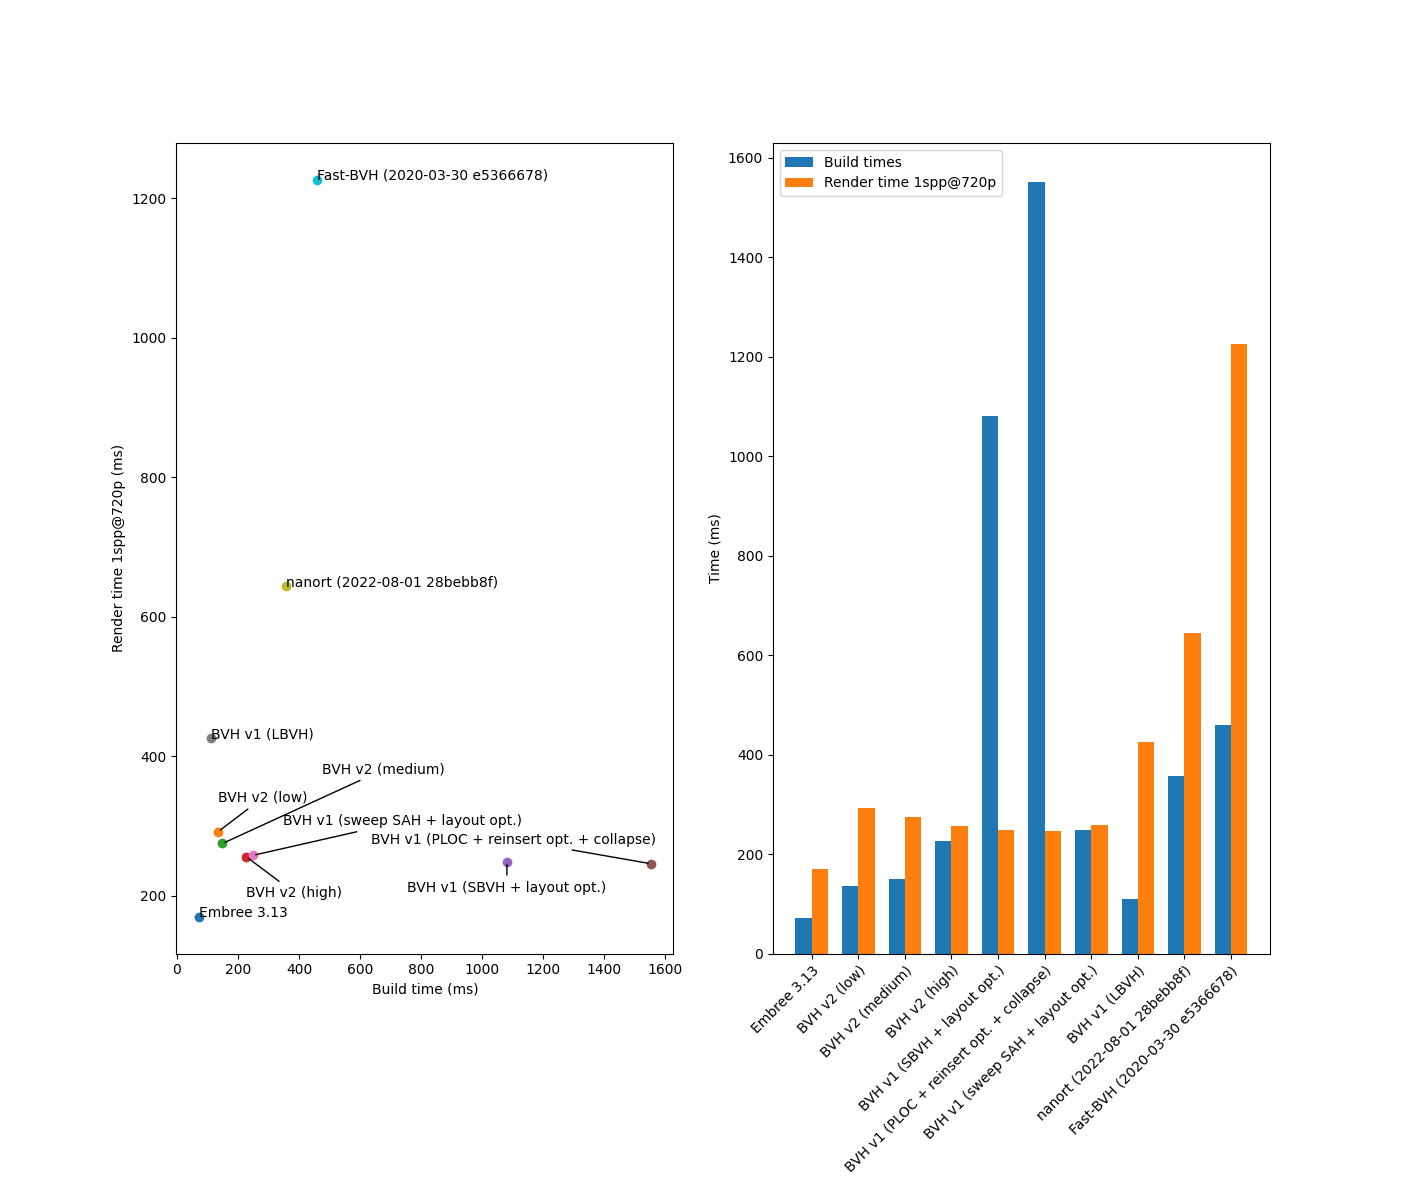
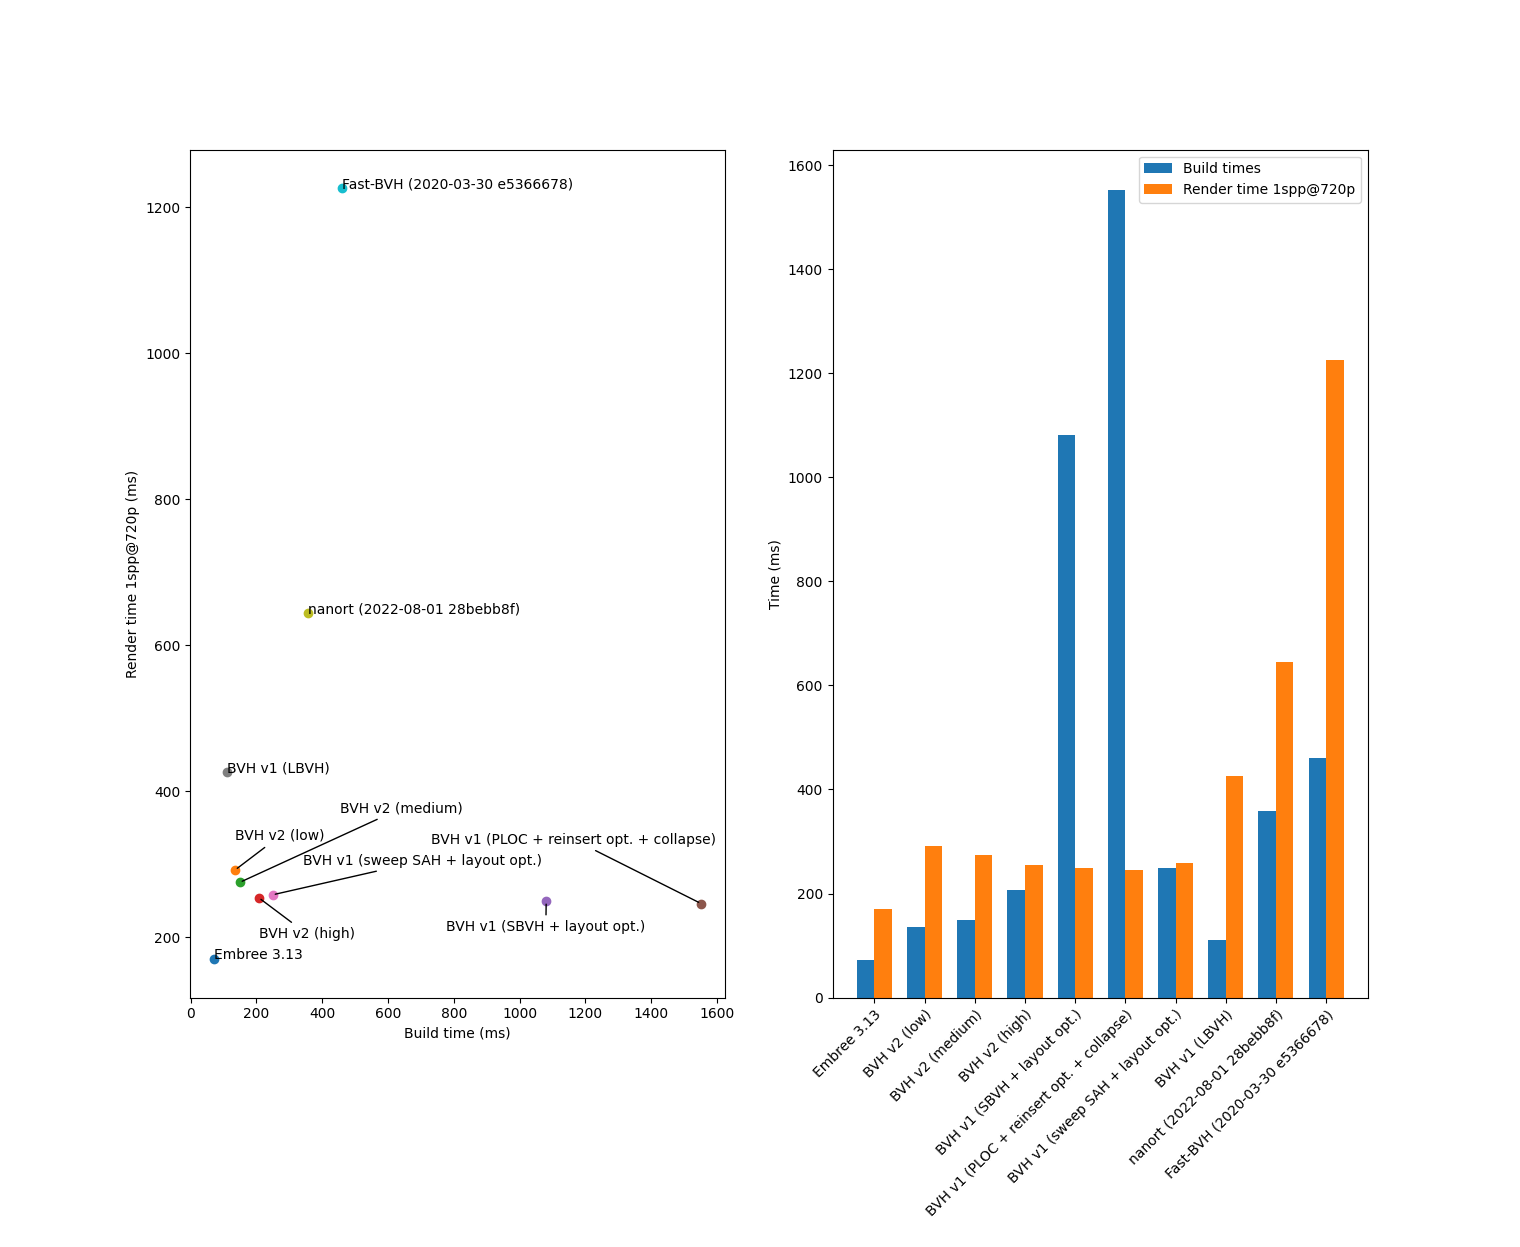
Improve speed of `find_candidates`

diff --git a/src/bvh/v2/reinsertion_optimizer.h b/src/bvh/v2/reinsertion_optimizer.h
@@ -6,6 +6,7 @@
 #include "bvh/v2/executor.h"
 
 #include <vector>
+#include <algorithm>
 
 namespace bvh::v2 {
 
@@ -46,7 +47,7 @@ private:
     struct Reinsertion {
         size_t from = 0;
         size_t to = 0;
-        Scalar area_diff = -std::numeric_limits<Scalar>::max();
+        Scalar area_diff = static_cast<Scalar>(0);
 
         BVH_ALWAYS_INLINE bool operator > (const Reinsertion& other) const {
             return area_diff > other.area_diff;
@@ -85,15 +86,21 @@ private:
     }
 
     BVH_ALWAYS_INLINE std::vector<Candidate> find_candidates(size_t target_count) {
-        std::vector<Candidate> candidates(bvh_.nodes.size() - 1);
-        for (size_t i = 0; i < candidates.size(); ++i)
-            candidates[i] = Candidate { i + 1, bvh_.nodes[i + 1].get_bbox().get_half_area() };
-        std::partial_sort(
-            candidates.begin(),
-            candidates.begin() + target_count,
-            candidates.end(),
-            std::greater<>{});
-        candidates.resize(std::min(target_count, candidates.size()));
+        // Gather the `target_count` nodes that have the highest cost.
+        // Note that this may produce fewer nodes if the BVH has fewer than `target_count` nodes.
+        const auto node_count = std::min(bvh_.nodes.size(), target_count + 1);
+        std::vector<Candidate> candidates;
+        for (size_t i = 1; i < node_count; ++i)
+            candidates.push_back(Candidate { i, bvh_.nodes[i].get_bbox().get_half_area() });
+        std::make_heap(candidates.begin(), candidates.end(), std::greater<>{});
+        for (size_t i = node_count; i < bvh_.nodes.size(); ++i) {
+            auto cost = bvh_.nodes[i].get_bbox().get_half_area();
+            if (candidates.front().cost < cost) {
+                std::pop_heap(candidates.begin(), candidates.end(), std::greater<>{});
+                candidates.back() = Candidate { i, cost };
+                std::push_heap(candidates.begin(), candidates.end(), std::greater<>{});
+            }
+        }
         return candidates;
     }
 
@@ -124,12 +131,12 @@ private:
          *     SA(Pn) - SA(B U sibling(P2) U ... U sibling(P(n - 1)) + : Same but for Pn
          *     0 +                                                     : R does not change
          *     SA(Q1) - SA(Q1 U A) +                                   : Q1 now contains A
-         *     SA(Q1) - SA(Q2 U A) +                                   : Q2 now contains A
+         *     SA(Q2) - SA(Q2 U A) +                                   : Q2 now contains A
          *     ... +
          *     -SA(A U C)                                              : For the parent of A and C
          */
 
-        Reinsertion best_reinsertion { node_id };
+        Reinsertion best_reinsertion { .from = node_id };
         auto node_area   = bvh_.nodes[node_id].get_bbox().get_half_area();
         auto parent_area = bvh_.nodes[parents_[node_id]].get_bbox().get_half_area();
         auto area_diff = parent_area;
@@ -169,6 +176,7 @@ private:
                 pivot_bbox.extend(bvh_.nodes[sibling_id].get_bbox());
                 area_diff += bvh_.nodes[pivot_id].get_bbox().get_half_area() - pivot_bbox.get_half_area();
             }
+
             sibling_id = Node::get_sibling_id(pivot_id);
             pivot_id = parents_[pivot_id];
         } while (pivot_id != 0);
@@ -243,10 +251,11 @@ private:
                         reinsertions[i] = find_reinsertion(candidates[i].node_id);
                 });
 
+            reinsertions.erase(std::remove_if(reinsertions.begin(), reinsertions.end(),
+                [] (auto& r) { return r.area_diff <= 0; }), reinsertions.end());
             std::sort(reinsertions.begin(), reinsertions.end(), std::greater<>{});
+
             for (auto& reinsertion : reinsertions) {
-                if (reinsertion.area_diff <= 0)
-                    break;
                 auto conflicts = get_conflicts(reinsertion.from, reinsertion.to);
                 if (std::any_of(conflicts.begin(), conflicts.end(), [&] (size_t i) { return touched[i]; }))
                     continue;
